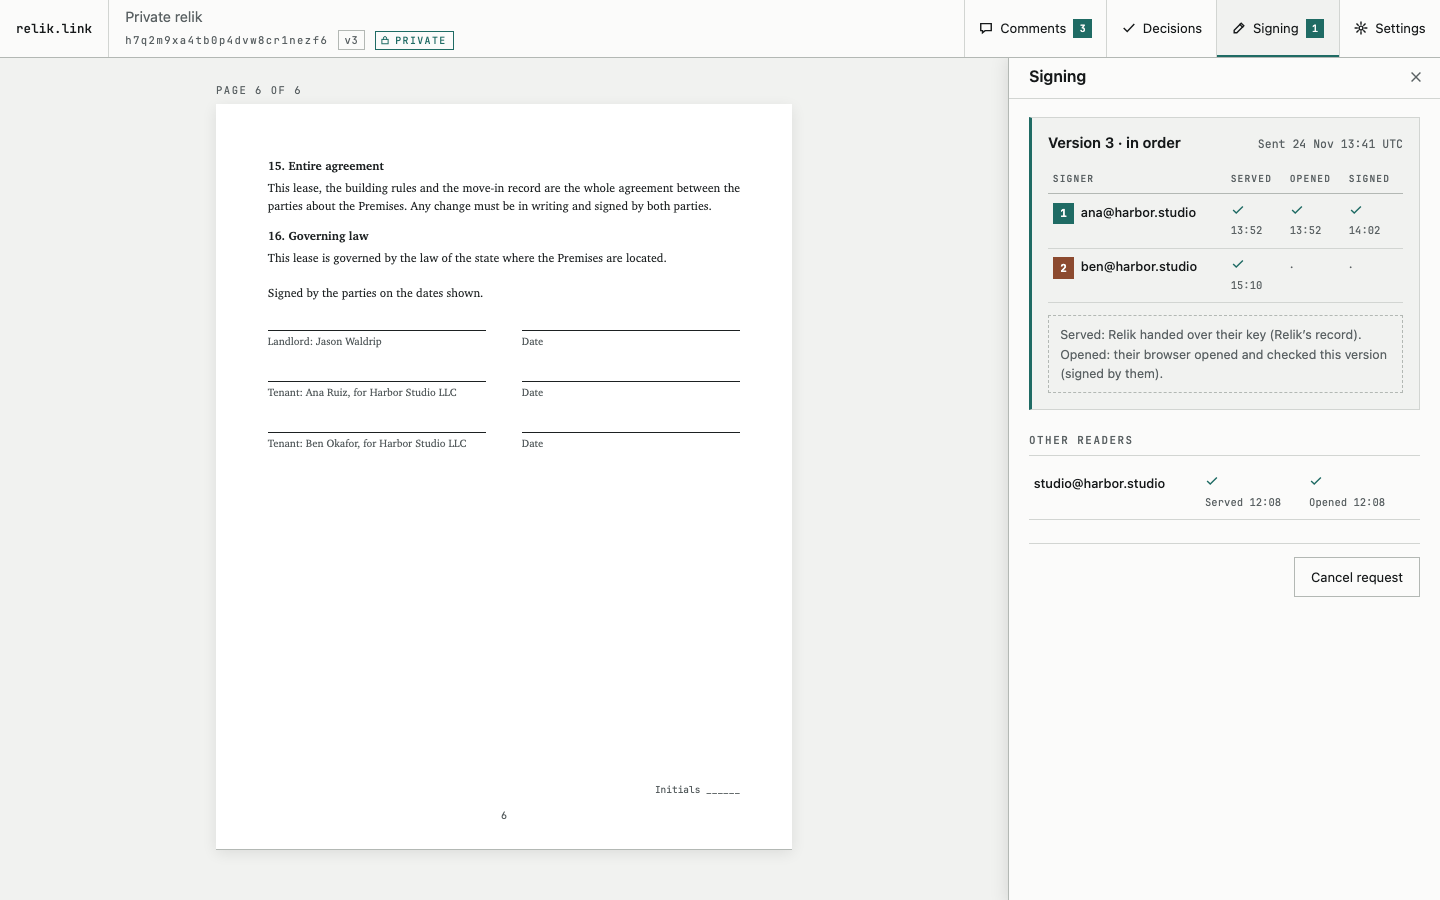
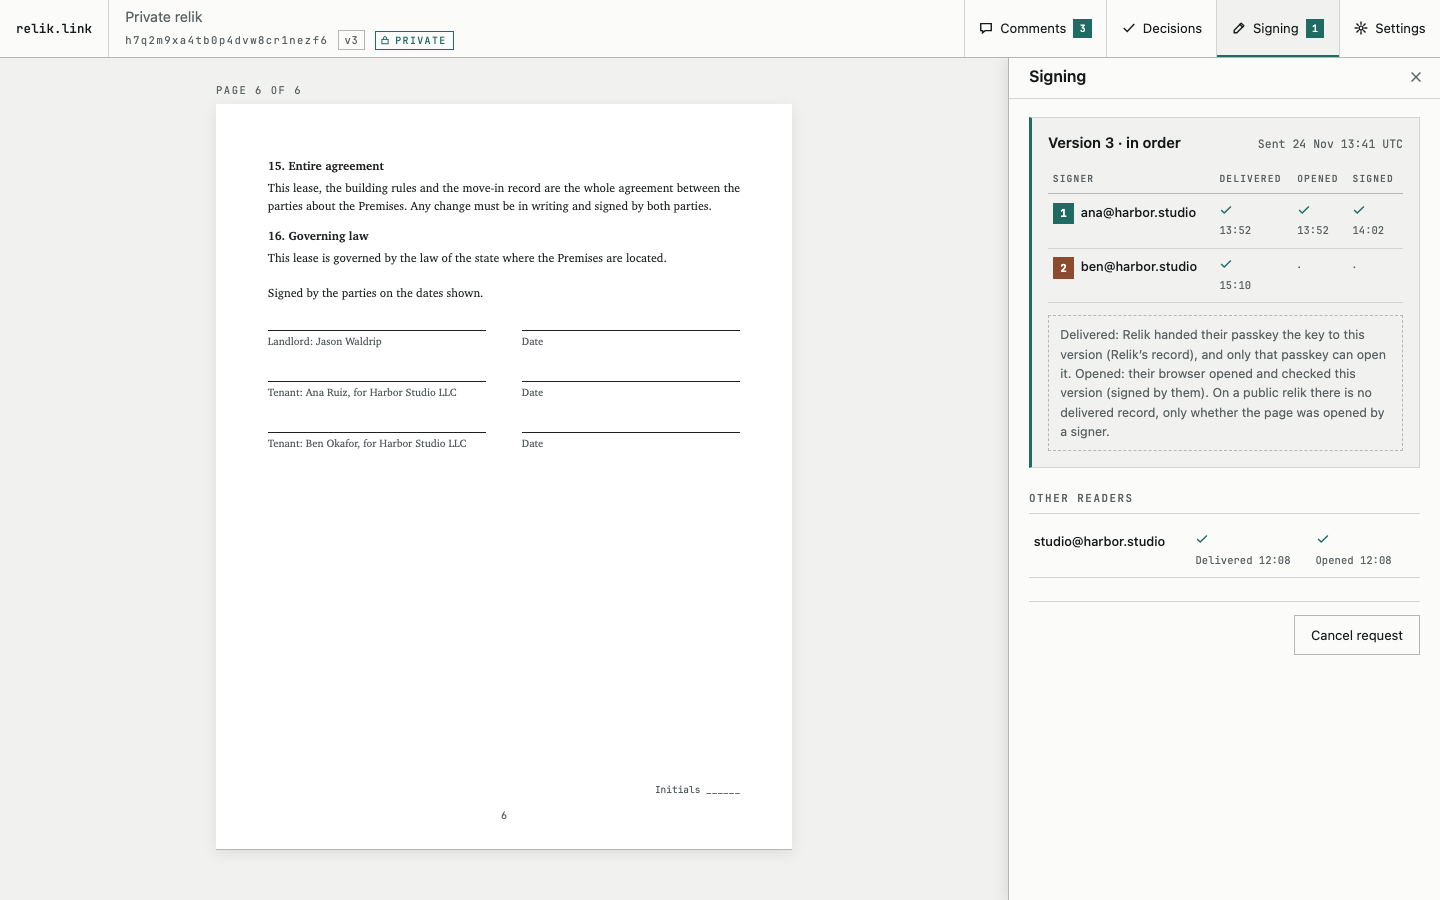
Mock: Delivered receipts and the new C12 legend
Private status labels the first receipt Delivered with a time; public status shows only Opened where a signer opened it.

diff --git a/docs/plans/signing/mockup.html b/docs/plans/signing/mockup.html
@@ -570,7 +570,7 @@ p { margin: 0; }
     C9: 'Signing is paused by the owner.',
     C10r: 'Comments are closed.',
     C10o: 'Comments are closed to readers. You can still comment.',
-    C12: 'Served: Relik handed over their key (Relik\u2019s record). Opened: their browser opened and checked this version (signed by them).',
+    C12: 'Delivered: Relik handed their passkey the key to this version (Relik\u2019s record), and only that passkey can open it. Opened: their browser opened and checked this version (signed by them). On a public relik there is no delivered record, only whether the page was opened by a signer.',
   };
   const C4 = `${C.C4p} ${C.C4n}`;
 
@@ -1017,20 +1017,20 @@ p { margin: 0; }
   // ================= STATUS =================
   function statusBody(o) {
     if (o.private) {
-      const row = (i, served, opened, signed) => `<tr><td class="who"><span class="signer-tag ${F.signers[i].cls}" style="margin-right:0.4rem">${i + 1}</span>${F.signers[i].email}</td>
-        <td>${served ? `<span class="mark-yes" aria-label="yes">${ic('check')}</span><span class="t">${served}</span>` : '<span class="mark-no">·</span>'}</td>
+      const row = (i, delivered, opened, signed) => `<tr><td class="who"><span class="signer-tag ${F.signers[i].cls}" style="margin-right:0.4rem">${i + 1}</span>${F.signers[i].email}</td>
+        <td>${delivered ? `<span class="mark-yes" aria-label="yes">${ic('check')}</span><span class="t">${delivered}</span>` : '<span class="mark-no">·</span>'}</td>
         <td>${opened ? `<span class="mark-yes" aria-label="yes">${ic('check')}</span><span class="t">${opened}</span>` : '<span class="mark-no">·</span>'}</td>
         <td>${signed ? `<span class="mark-yes" aria-label="yes">${ic('check')}</span><span class="t">${signed}</span>` : '<span class="mark-no">·</span>'}</td></tr>`;
       return `<div class="request"><div class="request-head"><strong>Version 3 · in order</strong><span class="request-when">Sent 24 Nov 13:41 UTC</span></div>
-        <table class="receipts"><thead><tr><th>Signer</th><th>Served</th><th>Opened</th><th>Signed</th></tr></thead><tbody>
+        <table class="receipts"><thead><tr><th>Signer</th><th>Delivered</th><th>Opened</th><th>Signed</th></tr></thead><tbody>
         ${row(0, '13:52', '13:52', '14:02')}${row(1, '15:10', '', '')}</tbody></table>
         <p class="legend">${C.C12}</p></div>
-        <section class="panel-section"><h3>Other readers</h3><table class="receipts"><tbody><tr><td class="who">studio@harbor.studio</td><td><span class="mark-yes">${ic('check')}</span><span class="t">Served 12:08</span></td><td><span class="mark-yes">${ic('check')}</span><span class="t">Opened 12:08</span></td><td></td></tr></tbody></table></section>
+        <section class="panel-section"><h3>Other readers</h3><table class="receipts"><tbody><tr><td class="who">studio@harbor.studio</td><td><span class="mark-yes">${ic('check')}</span><span class="t">Delivered 12:08</span></td><td><span class="mark-yes">${ic('check')}</span><span class="t">Opened 12:08</span></td><td></td></tr></tbody></table></section>
         <div class="panel-foot"><button type="button" class="btn danger" data-go="SS4">Cancel request</button></div>`;
     }
     return `<div class="request"><div class="request-head"><strong>Version 3 · any order</strong><span class="request-when">Sent 24 Nov 13:41 UTC</span></div>
       <ul class="status-list">
-        <li><span class="signer-tag s1">1</span><span class="who">ana@harbor.studio</span><span class="chip ok">${ic('check')}Signed</span><span class="when">14:02 UTC</span></li>
+        <li><span class="signer-tag s1">1</span><span class="who">ana@harbor.studio</span><span class="chip ok">${ic('check')}Signed</span><span class="when">Opened 13:52 · signed 14:02 UTC</span></li>
         <li><span class="signer-tag s2">2</span><span class="who">ben@harbor.studio</span><span class="chip wait">Ready</span><span class="when">Not opened yet</span></li>
       </ul></div>
       <p class="panel-lead">1 of 2 signed. You can\u2019t republish while this request is open.</p>
@@ -1046,7 +1046,7 @@ p { margin: 0; }
   }).join('')}</ul>`;
   const lockStrip = (o = {}) => `<div class="strip is-oxide" data-strip><span class="strip-line">${ic('lock')}<span><strong>${o.private ? C.C6(3, F.date) : C.C5(3, F.date)}</strong></span></span>${o.link ? `<a href="#CF1" class="strip-fp">Signing certificate</a>` : ''}</div>`;
   S('SS1', 'SS', 'Public open request with per-signer status', { init: { boxes: SIGNER_BOXES('other') }, view: () => ({ band: band({ actions: ['comments', 'suggest', 'decisions', 'signing', 'settings'], active: 'signing', signCount: 1 }), stage: pagesHTML({ pages: [2] }), panel: panel('Signing', statusBody({})) }) });
-  S('SS2', 'SS', 'Private: Served, Opened, Signed with the C12 legend', { view: () => ({ band: band({ private: true, actions: ['comments', 'decisions', 'signing', 'settings'], active: 'signing', signCount: 1 }), stage: pagesHTML({ pages: [6] }), panel: panel('Signing', statusBody({ private: true })) }) });
+  S('SS2', 'SS', 'Private: Delivered, Opened, Signed with the C12 legend', { view: () => ({ band: band({ private: true, actions: ['comments', 'decisions', 'signing', 'settings'], active: 'signing', signCount: 1 }), stage: pagesHTML({ pages: [6] }), panel: panel('Signing', statusBody({ private: true })) }) });
   S('SS3', 'SS', 'Complete: lock banner, Download certificate, Verified in this browser', {
     init: { boxes: [{ s: 0, p: 6, x: 9, y: 61, w: 36, h: 5.5, st: 'signed' }, { s: 1, p: 6, x: 9, y: 72, w: 36, h: 5.5, st: 'signed' }] },
     view: () => ({
